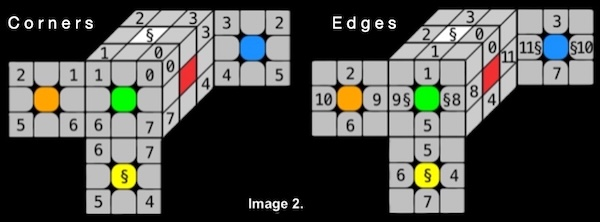
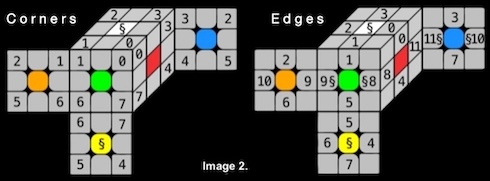
Resizing the canvas

diff --git a/style.css b/style.css
@@ -6,12 +6,12 @@ body {
 	color: #f0f0f0;
 	font-family: sans-serif;
 	padding: 20px 10px;
-	min-width: 740px;
+	min-width: 600px;
 }
 
 .tool-container {
 	position: relative;
-	width: 720px;
+	width: 600px;
 	margin: 0 auto 20px auto;
 	min-height: 550px;
 }
@@ -20,10 +20,7 @@ body {
 	position: absolute;
 	top: 10px;
 	right: 0;
-	width: 340px;
-	display: flex;
-	justify-content: space-between;
-	align-items: flex-start;
+	width: 280px; /* Занимает всю ширину родителя */
 }
 
 #left-controls {
@@ -78,7 +75,7 @@ body {
 	padding: 6px 8px;
 	background-color: #444;
 	color: #ccc;
-	font-size: 18px;
+	font-size: 16px;
 	font-weight: normal;
 	line-height: 1;
 	text-align: center;
@@ -100,8 +97,11 @@ body {
 }
 /* Reset */
 #controls button#reset-button {
+	position: absolute;
+	top: 0;
+	right: 0;
 	padding: 8px 15px;
-	font-size: 1.2em;
+	font-size: 0.9em;
 	cursor: pointer;
 	border: 1px solid #555;
 	border-radius: 15px;
@@ -109,7 +109,6 @@ body {
 	color: #bbb;
 	transition: background-color 0.2s, border-color 0.2s;
 	height: min-content;
-	margin-left: auto;
 }
 #controls button#reset-button:hover {
 	background-color: #444;
@@ -117,7 +116,7 @@ body {
 }
 
 .code-field {
-	width: 440px;
+	width: 400px;
 	padding: 5px 8px;
 	background-color: #222;
 	color: #f0f0f0;
@@ -128,13 +127,13 @@ body {
 
 #position-code {
 	font-family: "Menlo", "Consolas", monospace;
-	font-size: 1.1em;
+	font-size: 1em;
 	text-align: center;
 }
 
 #catch24-input {
 	font-family: "Times New Roman", Times, serif;
-	font-size: 1em;
+	font-size: 0.9em;
 	text-align: center;
 }
 
@@ -147,12 +146,12 @@ body {
 
 #catch24-button,
 #apply-catch24-button {
-	width: 80px;
+	width: 75px;
 	padding: 7px 10px;
 	border-radius: 15px;
 	border: 1px solid #555;
 	cursor: pointer;
-	font-size: 1.1em;
+	font-size: 1em;
 }
 
 #catch24-button {
@@ -226,7 +225,7 @@ body {
 /* "Input" */
 .hotzone-text {
 	padding: 8px 6px;
-	font-size: 18px;
+	font-size: 16px;
 }
 
 #diagnostic-message {
@@ -244,7 +243,7 @@ h1.title-header {
 	z-index: 10;
 	margin: 0;
 	font-family: "Times New Roman", Times, serif;
-	font-size: 18px;
+	font-size: 16px;
 	color: #ccc;
 	cursor: pointer;
 }
@@ -275,7 +274,10 @@ h1.title-header:hover {
 	color: #00aaff;
 }
 
-#controls button#reset-button:active,
+#controls button#reset-button:active {
+	margin-left: auto;
+}
+
 #catch24-button:not(:disabled):active,
 .hotzone-button:active,
 #apply-catch24-button:active,

diff --git a/Impasto.js b/Impasto.js
@@ -3,9 +3,8 @@ import * as CubeDefs from './cubeConstants.js'
 import { CubeState } from './CubeState.js'
 import { drawLayout, setOnLogoLoadCallback, setupLayoutEnvironment } from './Layout.js'
 
-const CANVAS_WIDTH_CONFIG = 720
 const CUBE_DIMENSION_CONFIG = 3
-const M_FOR_CLICK_DETECTION = CANVAS_WIDTH_CONFIG / 4
+const M_FOR_CLICK_DETECTION = CubeDefs.CANVAS_WIDTH_CONFIG / 4
 const SQUARE_SIZE_FOR_CLICK_DETECTION = Math.floor(M_FOR_CLICK_DETECTION / CUBE_DIMENSION_CONFIG)
 
 let cubeState = new CubeState()
@@ -15,7 +14,7 @@ let shouldDrawCatch24Text = false
 let copyTimeoutId = null
 
 // --- Initialization Layout (canvas) ---
-setupLayoutEnvironment('#cube-container', CANVAS_WIDTH_CONFIG)
+setupLayoutEnvironment('#cube-container', CubeDefs.CANVAS_WIDTH_CONFIG)
 setOnLogoLoadCallback(updateAndRedrawAll)
 // --- Getting references to DOM elements---
 const canvasEl = document.querySelector('#cube-container canvas')
@@ -33,7 +32,7 @@ function initializeOrResetCubeState() {
 	positionCodeInput.style.color = ''
 	positionCodeInput.value = ''
 	positionCodeInput.style.fontFamily = '"Times New Roman", ""Times", serif'
-	positionCodeInput.style.fontSize = '1em'
+	positionCodeInput.style.fontSize = '0.9em'
 
 	applyInputButton.style.background = 'linear-gradient(to right, #8A2BE2 25px, dodgerblue 40px)'
 
@@ -96,7 +95,7 @@ function handleApplyCode(isSolution) {
 				applyInputButton.style.background = 'dodgerblue'
 				positionCodeInput.value = codeInput.split('').join(' ')
 				positionCodeInput.style.fontFamily = '"Menlo", "Consolas", monospace'
-				positionCodeInput.style.fontSize = '1.1em'
+				positionCodeInput.style.fontSize = '1em'
 				positionCodeInput.style.color = 'lime'
 				updateAndRedrawAll()
 			} else {
@@ -118,7 +117,7 @@ function handleCatch24Copy() {
 			.then(() => {
 				positionCodeInput.value = codeToCopy
 				positionCodeInput.style.fontFamily = '"Menlo", "Consolas", monospace'
-				positionCodeInput.style.fontSize = '1.1em'
+				positionCodeInput.style.fontSize = '1em'
 				positionCodeInput.style.color = 'dodgerblue'
 
 				applyInputButton.style.background = 'linear-gradient(to right, #8A2BE2 25px, dodgerblue 40px)'

diff --git a/Layout.js b/Layout.js
@@ -185,10 +185,10 @@ export function drawLayout(cubeState, args) {
 			isActive,
 		)
 	}
-	// --- FACSIMILE CATCH-24 ---
+	// --- LOGO CATCH-24 ---
 	if (drawCatch24Text && isLogoLoaded) {
 		console.log('Drawing Catch-24 logo')
 
-		ctx.drawImage(catch24Logo, 400, 420, 240, 66)
+		ctx.drawImage(catch24Logo, 340, 380, 240, 66)
 	}
 }

diff --git a/cubeConstants.js b/cubeConstants.js
@@ -1,5 +1,6 @@
 // Файл: cubeConstants.js ref 1.2
 export const DEBUG_STATE = false
+export const CANVAS_WIDTH_CONFIG = 600
 export const TOTAL_STIKERS = 48
 export const DEFAULT_COLOR = '#C0C0C0'
 export const SIDES = ['U', 'L', 'F', 'R', 'B', 'D']
